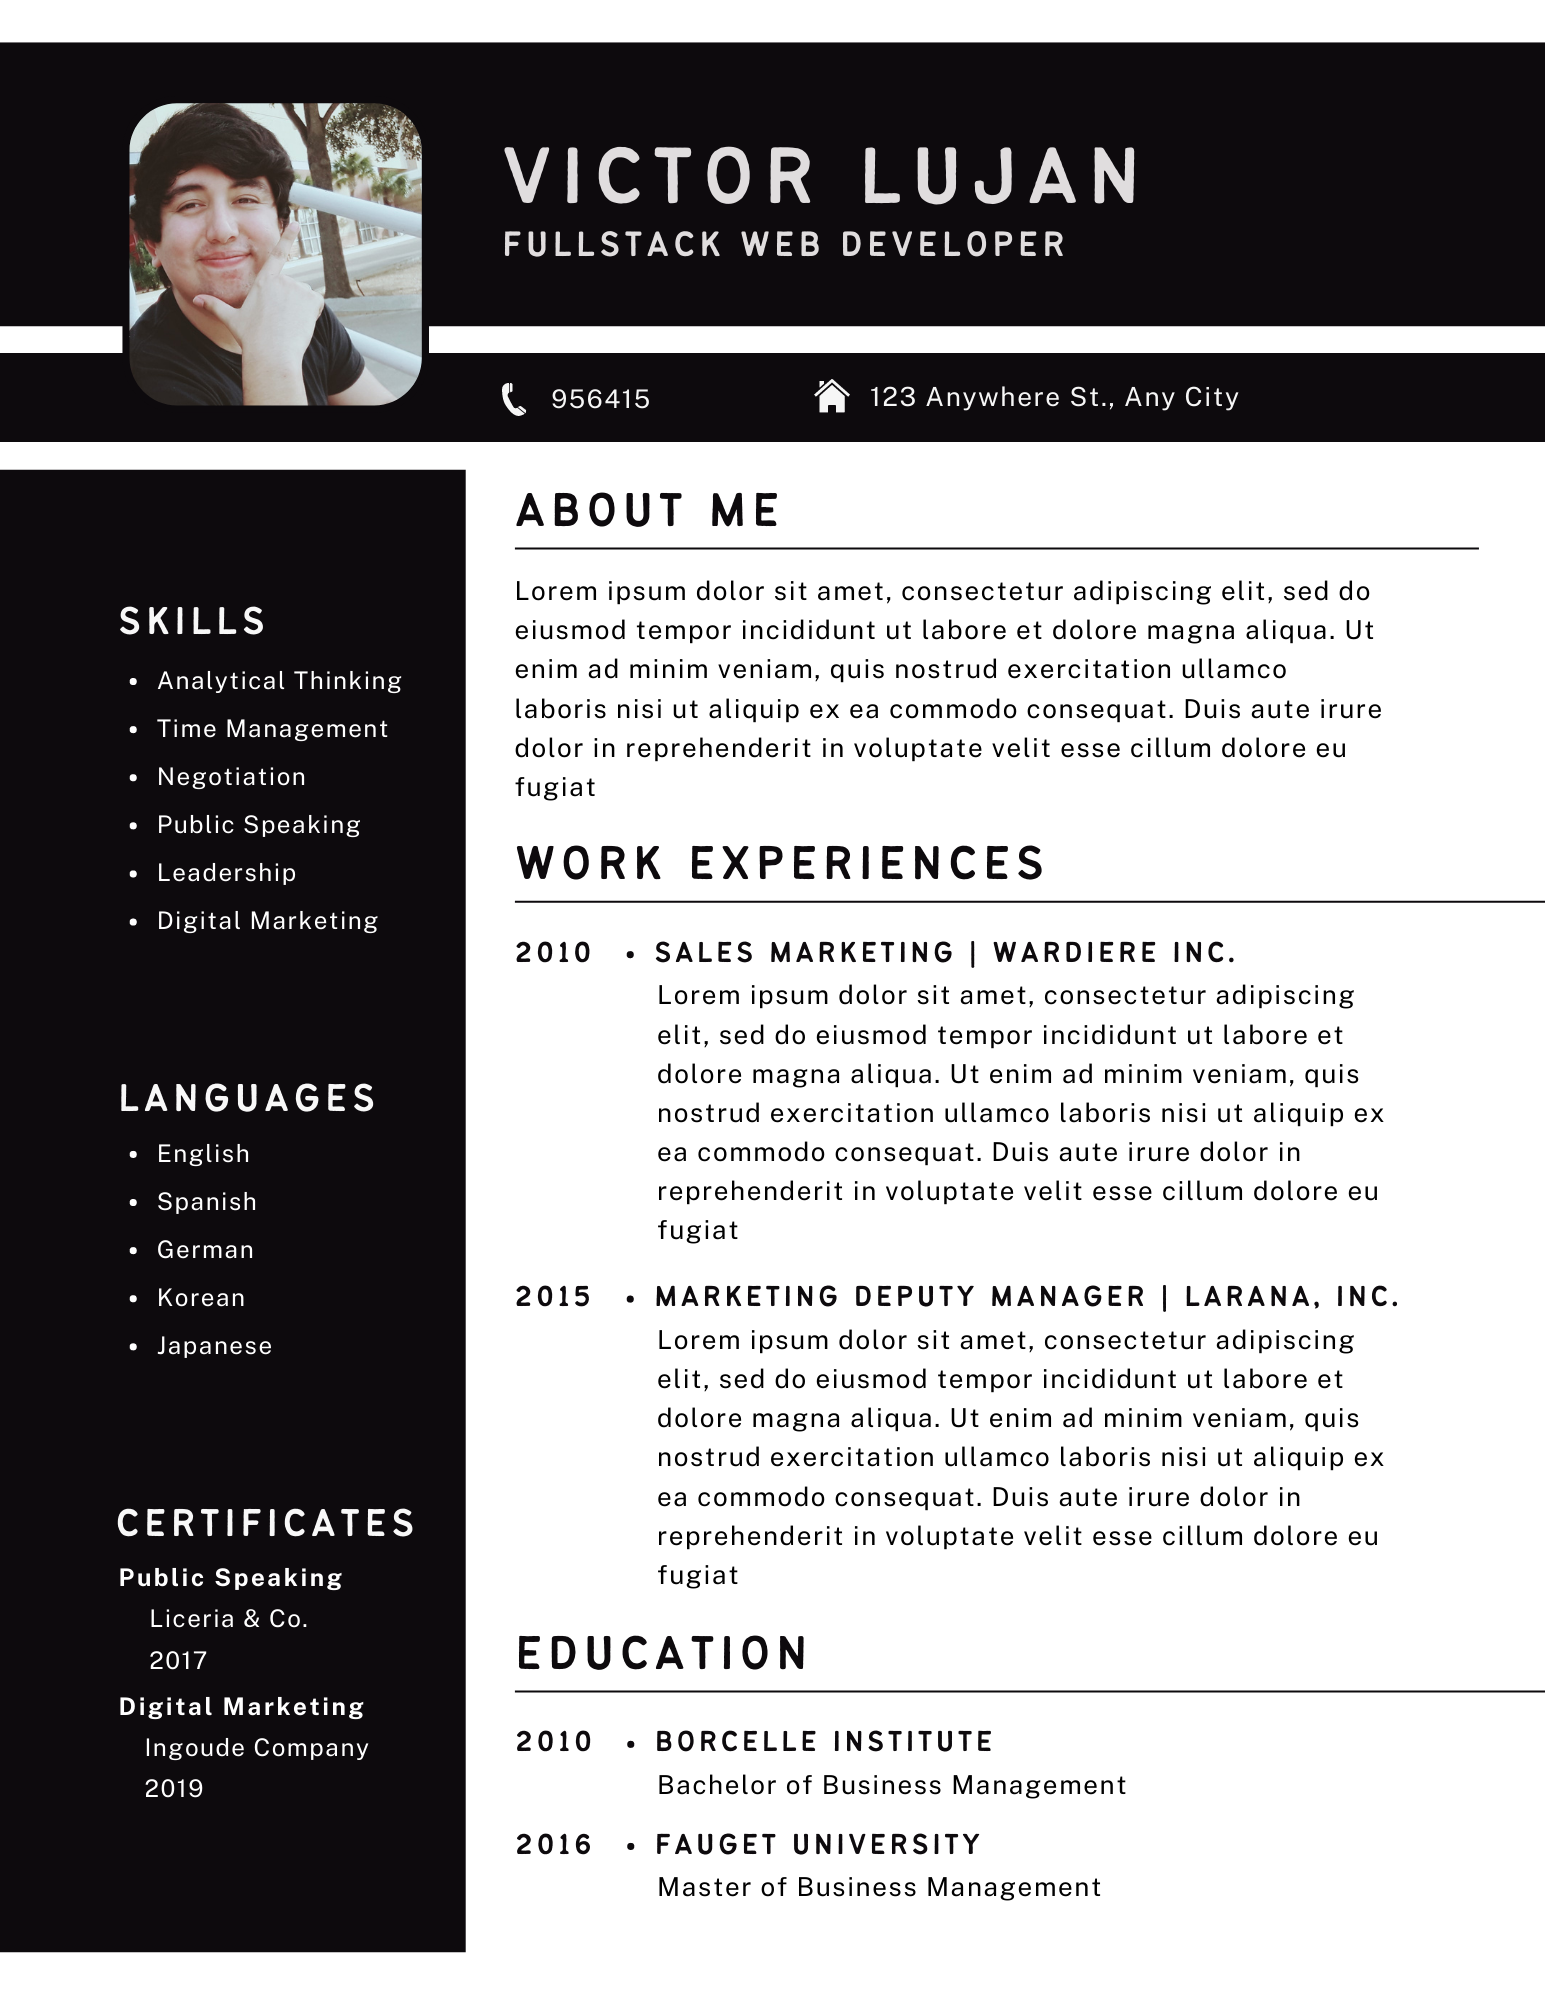
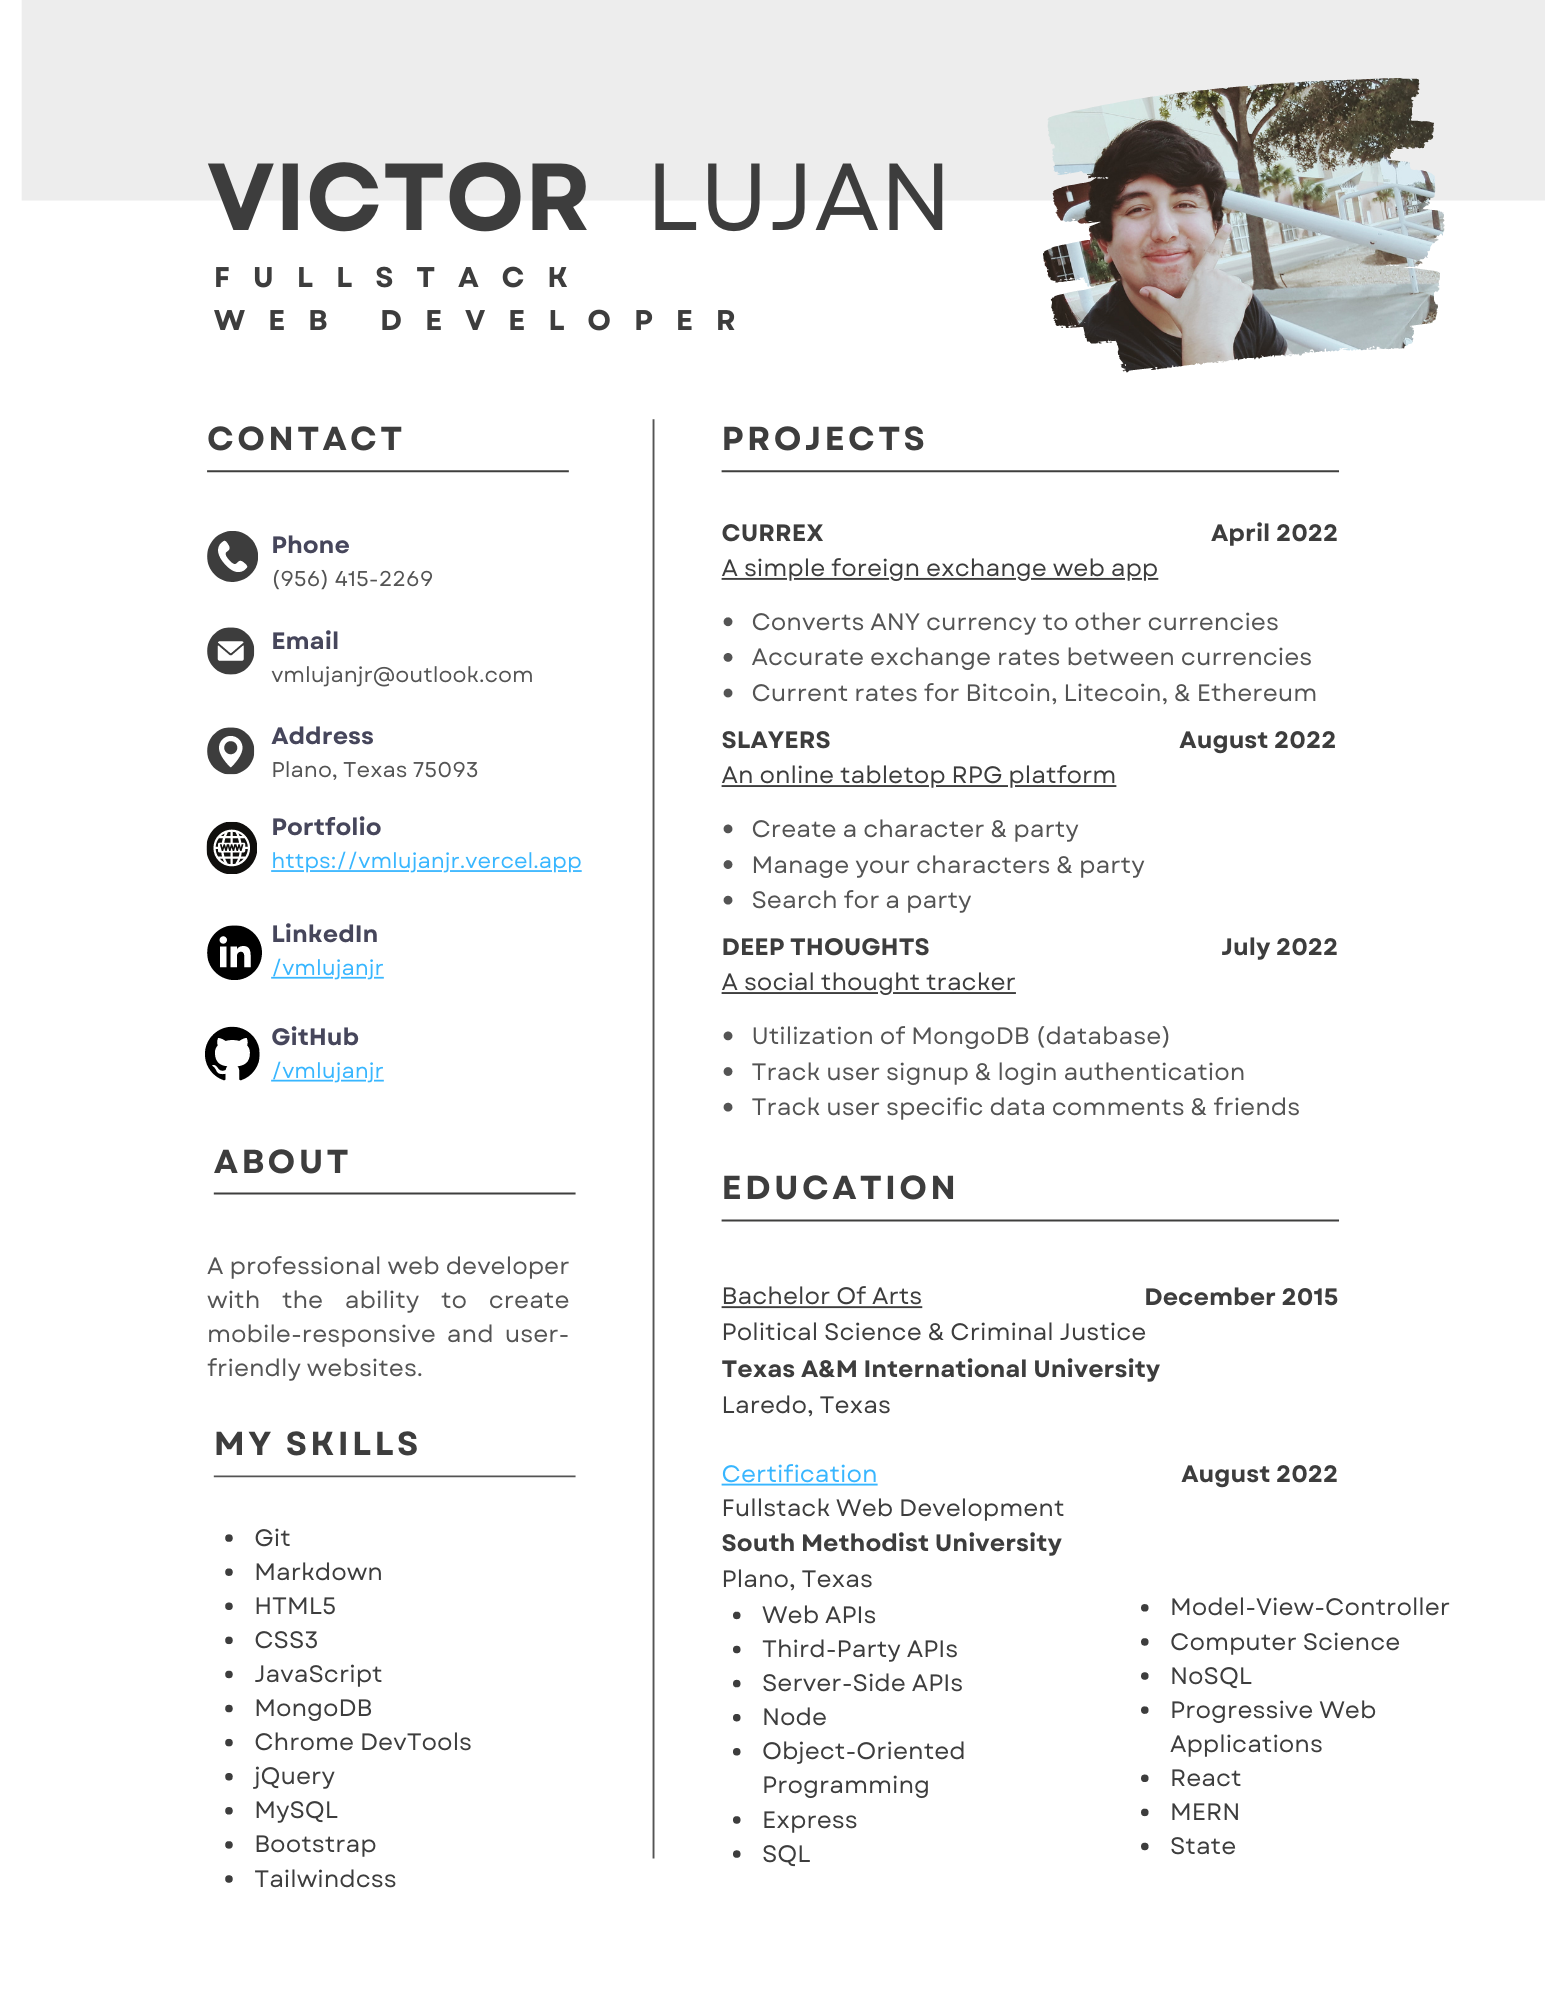
new resume png

diff --git a/README.md b/README.md
@@ -1,17 +1,37 @@
 [![banner](assets/images/banner.gif)](https://www.linkedin.com/in/vmlujanjr/)
 
 # About
-Hi, I'm Victor. I'm a ==professional== web developer.
+Hi, I'm Victor.
+
+I'm a cybernatic warrior 🤖 on my spare time, and a professional web developer by day.
+
 # Education
-BA Political Science & Criminal Justice
-Texas A&M International University
-Laredo, Texas
+> **Bachelor of Arts**  
+> *Political Science & Criminal Justice*  
+> Texas A&M International University  
+> Laredo, Texas  
+> December 2015
 
-Certification
-South Methodist University
-Plano, Texas
-
-<div data-iframe-width="150" data-iframe-height="270" data-share-badge-id="7b15a31c-4fb7-434d-ba42-83bab732e2cd" data-share-badge-host="https://www.credly.com"></div><script type="text/javascript" async src="//cdn.credly.com/assets/utilities/embed.js"></script>
+> [**Certification**](https://www.credly.com/badges/7b15a31c-4fb7-434d-ba42-83bab732e2cd/public_url)  
+> *Fullstack Web Development*  
+> South Methodist University  
+> Plano, Texas  
+> August 2022
+> > **Relevant Courses**
+> > - Web APIs
+> > - Third-Party APIs
+> > - Server-Side APIs
+> > - Node
+> > - Object-Oriented Programming
+> > - Express
+> > - SQL
+> > - Model-View-Controller
+> > - Computer Science
+> > - NoSQL
+> > - Progressive Web Application
+> > - React
+> > - MERN
+> > - State
 
 # Resume
 ![resume](assets/images/resume.png)
